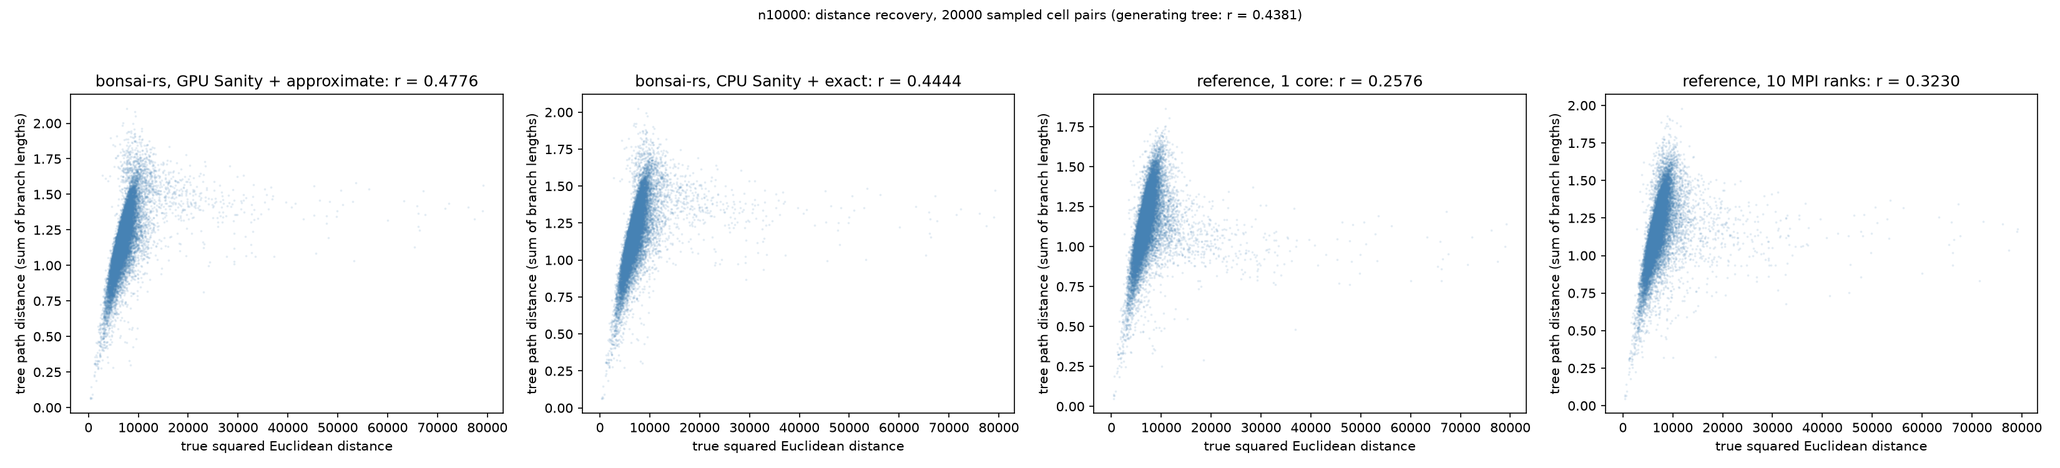
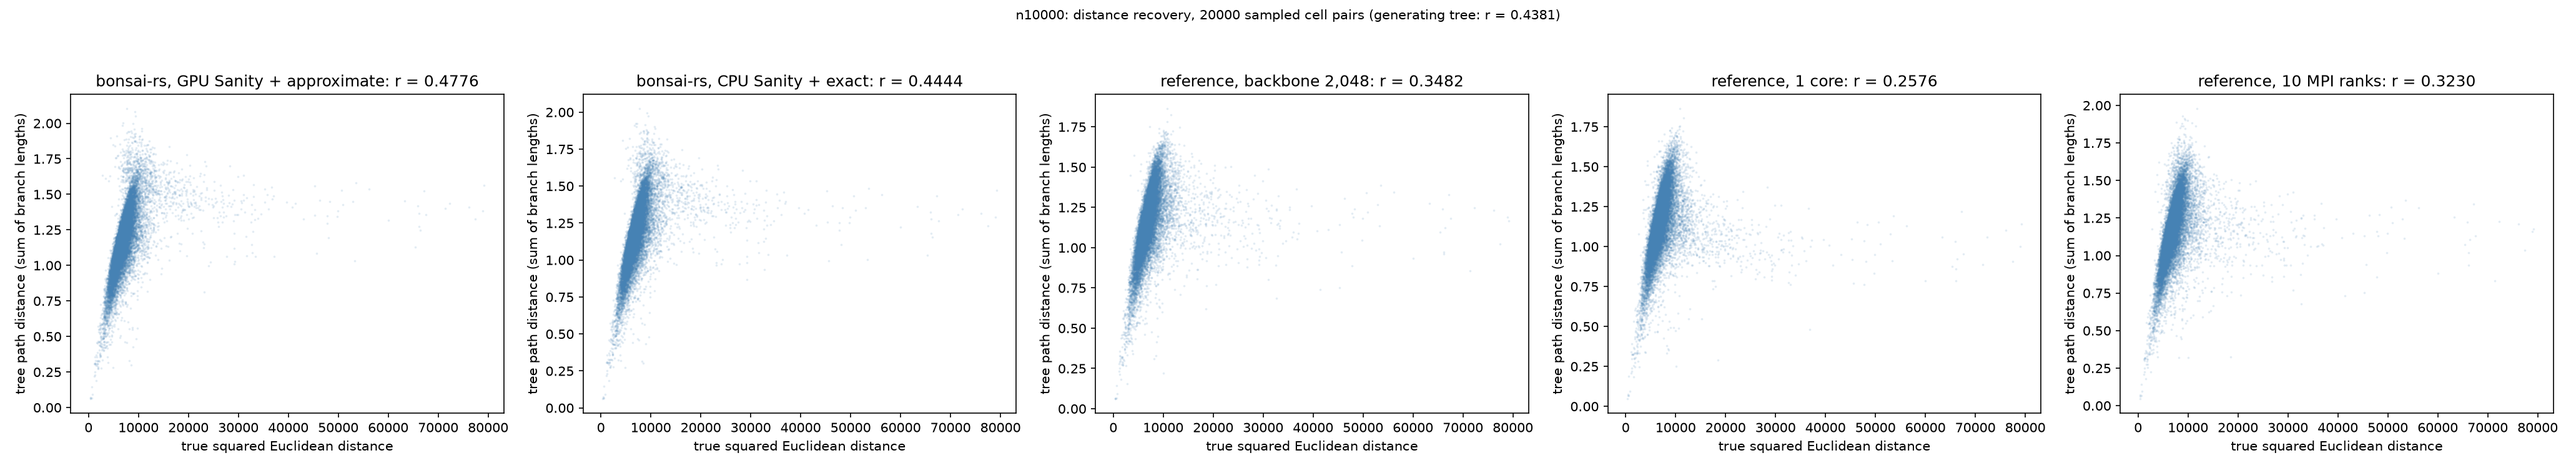
docs: performance with the proper comparisons across

diff --git a/reference/comparison/figures.py b/reference/comparison/figures.py
@@ -52,6 +52,7 @@ TREE_SETS: dict[str, list[tuple[str, str]]] = {
     "e2e": [
         ("bonsai-rs, GPU Sanity + approximate", "ours_e2e_gpu_approx.nwk"),
         ("bonsai-rs, CPU Sanity + exact", "ours_e2e_cpu_exact.nwk"),
+        ("reference, backbone 2,048", "theirs_backbone_n2048_g10.nwk"),
         ("reference, 1 core", "theirs.nwk"),
         ("reference, 10 MPI ranks", "theirs_mpi10.nwk"),
     ],

diff --git a/docs/COMPARISON.md b/docs/COMPARISON.md
@@ -93,17 +93,27 @@ recovery are what it's for.
 ## Counts to tree
 
 Raw UMIs to finished tree on **one node**: ten-core M1 Max, 64 GB, each run
-alone. The Rust route is 0.2.2 with `sanity-sc-rs` 0.3.0, 2026-09-30; the original route is from
-2026-09-25. The published implementation can run MPI across nodes; nothing here
-speaks to a cluster.
+alone. The Rust route is 0.2.2 with `sanity-sc-rs` 0.3.0, 2026-09-30; the
+original route is from 2026-09-25, its backbone runs from 2026-09-26. The
+published implementation can run MPI across nodes; nothing here speaks to a
+cluster.
 
 Data: the harness's simulated Baron counts, 17,499 genes. Original route: the
 Sanity binary (10 threads, `-v_m MAP`), the harness's selection at `S >= 1`,
-then published Bonsai on one core and under MPI with 10 ranks. Rust route,
-driven through the Python bindings: genes with no counts dropped (the Sanity
-binary drops them itself), `sanity-sc-rs` on CPU or GPU in `f32`, the S5
-conversion, `bonsai()` at defaults (also `S >= 1`). Rust Sanity's default
-`marginalise` variance rule does more work per gene than `MAP`.
+then published Bonsai. Rust route, driven through the Python bindings: genes
+with no counts dropped (the Sanity binary drops them itself), `sanity-sc-rs` on
+CPU or GPU in `f32`, the S5 conversion, `bonsai()` at defaults (also `S >= 1`).
+Rust Sanity's default `marginalise` variance rule does more work per gene than
+`MAP`.
+
+Each search is paired with its counterpart. **Exact** is SPR and NNI as the
+paper specifies them: ours against the published standard run, on one core and
+under MPI with 10 ranks. **Approximate** is our default (see the README) against
+the published backbone mode, its fastest, with `n_initial_cells` 2,048 and
+`growth_factor_guide` 10, one process. Its default of 10,000 initial cells
+needs more cells than these sets have, so it's untested at the setting it
+ships with. At 512 the backbone (128 initial cells) took 758 s, twice its
+standard run, so it has no row there. Whether it combines with MPI wasn't run.
 
 Sanity, seconds:
 
@@ -116,64 +126,77 @@ Sanity, seconds:
 
 Bonsai, seconds:
 
-| cells | published, 1 core | published, 10 ranks | Rust, exact search | Rust, approximate search |
-|---|---|---|---|---|
-| 512 | 371.7 | 170.2 | 4.2 | 1.9 |
-| 512 s32 | 371.0 | | 4.5 | 2.2 |
-| 5,000 | 4,868 | 3,208.6 | 100.7 | 29.7 |
-| 10,000 | 16,062 | 9,439.3 | 469.9 | 73.2 |
-
-Exact is SPR and NNI as the paper specifies them; approximate is the default
-(see the README). Rust search times are on CPU-Sanity input. On GPU-Sanity
-input, exact took 100.2 s and 438.4 s at 5,000 and 10,000, approximate 27.9 s
-and 71.0 s. Published single-core times at 5,000 and 10,000 are the harness's,
-reproduced within half a per cent on 2026-09-14; the rest are reruns. The
-original route also spends 2.0, 0.8, 29.7 and 66.5 s on gene selection, and the
-Rust route 0.1 to 1.7 s on the S5 conversion, both included below.
-
-End to end, seconds:
-
-| cells | original, 1 core | original, 10 ranks | Rust CPU + exact | Rust GPU + approximate | speed-up over the original on 1 core / 10 ranks |
+| cells | published, 1 core | published, 10 ranks | Rust, exact | published, backbone | Rust, approximate |
 |---|---|---|---|---|---|
-| 512 | 445.6 | 244.1 | 8.8 | 2.7 | 164x / 90x |
-| 512 s32 | 443.9 | | 8.9 | 2.9 | 156x / |
-| 5,000 | 5,664.2 | 4,005.2 | 129.6 | 31.0 | 183x / 129x |
-| 10,000 | 17,733.2 | 11,110.5 | 527.9 | 76.2 | 233x / 146x |
+| 512 | 371.7 | 170.2 | 4.2 | | 1.9 |
+| 512 s32 | 371.0 | | 4.5 | | 2.2 |
+| 5,000 | 4,868 | 3,208.6 | 100.7 | 2,514.0 | 29.7 |
+| 10,000 | 16,062 | 9,439.3 | 469.9 | 3,528.7 | 73.2 |
+
+Rust search times are on CPU-Sanity input. On GPU-Sanity input, exact took
+100.2 s and 438.4 s at 5,000 and 10,000, approximate 27.9 s and 71.0 s.
+Published single-core times at 5,000 and 10,000 are the harness's, reproduced
+within half a per cent on 2026-09-14; the rest are reruns. The backbone with
+1,000 initial cells took 1,794.3 s and 3,594.3 s, with worse trees at both
+sizes (RF 1,959 and 4,191). The original route also spends 2.0, 0.8, 29.7 and
+66.5 s on gene selection, and the Rust route 0.1 to 1.7 s on the S5
+conversion, both included below.
+
+End to end, exact, seconds:
+
+| cells | original, 1 core | original, 10 ranks | Rust CPU + exact | speed-up on 1 core / 10 ranks |
+|---|---|---|---|---|
+| 512 | 445.6 | 244.1 | 8.8 | 50x / 28x |
+| 512 s32 | 443.9 | | 8.9 | 50x / |
+| 5,000 | 5,664.2 | 4,005.2 | 129.6 | 44x / 31x |
+| 10,000 | 17,733.2 | 11,110.5 | 527.9 | 34x / 21x |
+
+End to end, approximate, seconds:
+
+| cells | original, backbone | Rust CPU + approximate | Rust GPU + approximate | speed-up, CPU / GPU |
+|---|---|---|---|---|
+| 5,000 | 3,310.6 | 58.5 | 31.0 | 57x / 107x |
+| 10,000 | 5,199.9 | 131.2 | 76.2 | 40x / 68x |
+
+The original route is CPU only, so the CPU columns are the like-for-like
+reading; GPU is what a Rust user gets with an adapter.
 
 Quality against the generating tree. Recovery here uses all 17,499 genes' true
 positions, not the selected genes of the headline table:
 
-| cells | original, 1 core | original, 10 ranks | Rust CPU + exact | Rust GPU + approximate |
-|---|---|---|---|---|
-| 512 | RF 146, 0.492 | RF 141, 0.496 | RF 137, 0.632 | RF 138, 0.631 |
-| 512 s32 | RF 240, 0.165 | | RF 241, 0.233 | RF 225, 0.232 |
-| 5,000 | RF 1,937, 0.352 | RF 2,016, 0.261 | RF 1,278, 0.570 | RF 1,285, 0.571 |
-| 10,000 | RF 5,149, 0.162 | RF 5,151, 0.226 | RF 2,634, 0.354 | RF 2,624, 0.392 |
+| cells | original, 1 core | original, 10 ranks | Rust CPU + exact | original, backbone | Rust GPU + approximate |
+|---|---|---|---|---|---|
+| 512 | RF 146, 0.492 | RF 141, 0.496 | RF 137, 0.632 | | RF 138, 0.631 |
+| 512 s32 | RF 240, 0.165 | | RF 241, 0.233 | | RF 225, 0.232 |
+| 5,000 | RF 1,937, 0.352 | RF 2,016, 0.261 | RF 1,278, 0.570 | RF 1,899, 0.456 | RF 1,285, 0.571 |
+| 10,000 | RF 5,149, 0.162 | RF 5,151, 0.226 | RF 2,634, 0.354 | RF 3,946, 0.252 | RF 2,624, 0.392 |
 
 Published memory, peak RSS summed over processes: 543 MB, 2,965 MB, 5,686 MB at
-512, 5,000, 10,000 on one core; 3,009 MB, 10,033 MB, 18,737 MB with 10 ranks.
-That's 5.5, 3.4 and 3.3x the memory for 2.2, 1.5 and 1.7x the speed, one Python
-process per rank. MPI also changes its answer: RF 141 against 146 at 512, 2,016
-against 1,937 at 5,000, 5,151 against 5,149 at 10,000.
+512, 5,000, 10,000 on one core; 3,009 MB, 10,033 MB, 18,737 MB with 10 ranks;
+2,809 MB and 5,418 MB for the backbone at 5,000 and 10,000. MPI costs 5.5, 3.4
+and 3.3x the memory for 2.2, 1.5 and 1.7x the speed, one Python process per
+rank. It also changes the answer: RF 141 against 146 at 512, 2,016 against
+1,937 at 5,000, 5,151 against 5,149 at 10,000. The backbone is the best of the
+published routes at both sizes, and at 10,000 by 1,200 splits.
 
 Two cautions. Differences between the Rust Sanity paths and search modes sit
 inside the run-to-run spread ([performance](PERFORMANCE.md#how-much-one-real-data-run-says)).
 Across the four Sanity and search pairings recovery spans 0.401 to 0.571 at
 5,000 and 0.354 to 0.392 at 10,000, and the lowest is GPU input with exact
 search at 5,000 but CPU input with exact search at 10,000. That's a basin, not
-one Sanity path making worse trees. The gaps to the published trees, over 600 splits from 5,000
-up, are far outside it.
+one Sanity path making worse trees. The gaps to the published trees, over 600
+splits from 5,000 up, the backbone included, are far outside it.
 
 Same trees drawn as in [What the trees look like](#what-the-trees-look-like):
 clade fragments (ideal ten) and recovery on the selected genes, same 20,000
 pairs for every tree.
 
-| cells | GPU + approximate | CPU + exact | reference, 1 core | reference, 10 ranks |
-|---|---|---|---|---|
-| 512 | 13, 0.744 | 13, 0.745 | 15, 0.638 | 14, 0.643 |
-| 512 s32 | 17, 0.372 | 17, 0.374 | 19, 0.311 | |
-| 5,000 | 21, 0.673 | 23, 0.672 | 29, 0.500 | 36, 0.402 |
-| 10,000 | 23, 0.478 | 23, 0.444 | 40, 0.258 | 58, 0.323 |
+| cells | GPU + approximate | CPU + exact | reference, backbone | reference, 1 core | reference, 10 ranks |
+|---|---|---|---|---|---|
+| 512 | 13, 0.744 | 13, 0.745 | | 15, 0.638 | 14, 0.643 |
+| 512 s32 | 17, 0.372 | 17, 0.374 | | 19, 0.311 | |
+| 5,000 | 21, 0.673 | 23, 0.672 | 24, 0.589 | 29, 0.500 | 36, 0.402 |
+| 10,000 | 23, 0.478 | 23, 0.444 | 33, 0.348 | 40, 0.258 | 58, 0.323 |
 
 ![radial layouts at 10,000 cells, counts to tree](figures/n10000_e2e_tree_layout.png)
 
